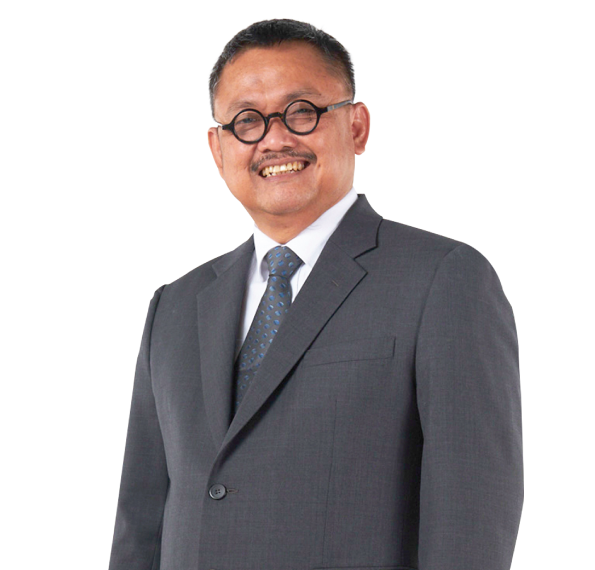
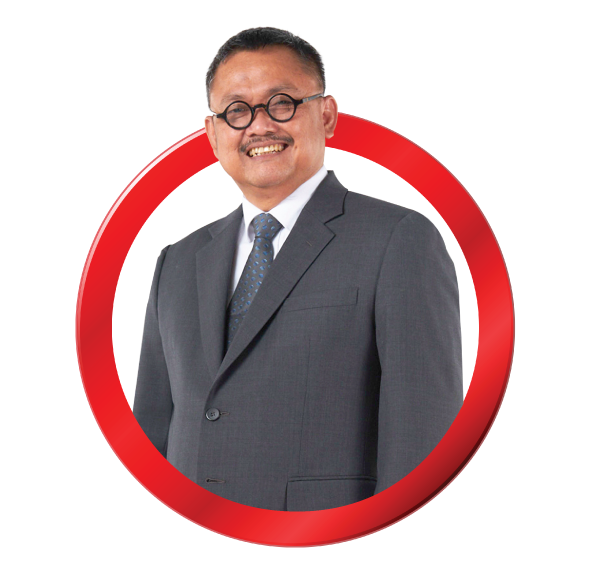
up

diff --git a/application/views/fronts/tentangkami/v_dewankomisaris.php b/application/views/fronts/tentangkami/v_dewankomisaris.php
@@ -13,51 +13,75 @@
 <?php $this->load->view('fronts/header.php')?>
 <!-- END HEADER -->
 
-<!-- START SECTION BANNER -->
-<section class="background_bg breadcrumb_section overlay_bg2 page-title-light" style="height:500px;"data-img-src="<?php echo base_url()?>assets/frontend/campur/headersubmenu.jpg">
-	<div class="container">
-    	<div class="row">
-        	<div class="col-md-12 text-center">
-            	<div class="page-title">
-            		<h1>Dewan Komisaris</h1>
+<!-- START SECTION ABOUT US -->
+<section class="small_pt">
+    <div class="container">
+        <div class="row justify-content-center">
+            <div class="col-md-6 animation" data-animation="fadeInUp" data-animation-delay="0.2s">
+                <div class="heading_s1 text-center">
+                    <h2>Direksi WMP</h2>
                 </div>
-                <nav aria-label="breadcrumb">
-                  <ol class="breadcrumb justify-content-center">
-                    <li class="breadcrumb-item"><a href="#">Beranda</a></li>
-                    <li class="breadcrumb-item"><a href="#">Tentang Kami</a></li>
-                    <li class="breadcrumb-item active" aria-current="page">Dewan Komisaris</li>
-                  </ol>
-                </nav>
+
             </div>
         </div>
-    </div>
-</section>
-<!-- END SECTION BANNER -->
+        <div class="row">
+            <div class="col-12">
+                <div class="cleafix small_divider"></div>
+            </div>
+        </div>
+        <div class="row">
+            <div class="col-md-12 carousel_slide4 owl-carousel owl-theme text-center animation" data-animation="fadeInUp" data-animation-delay="0.5s" data-margin="30" data-loop="true" data-autoplay="true">
+                <div class="item">
+                    <div class="team_box light_gray_bg team_hover_style2 social_white">
+                        <div class="team_img">
+                            <img src="assets/frontend/bod/FOTO-6.png" alt="Tumiyana"/>
+                            <ul class="list_none social_icons border_social">
+                               <li>
+                                    <h6 style="color: #fff">Temporibus autem quibusdam et aut officiis debitis aut rerum saepe eveniet </h6></li>
+                                    <a href="#" class="btn btn-outline-white">Lebih Detail</a>
+                            </ul>
+                        </div>
+                        <div class="team_title">
+                            <h5>Nama</h5>
+                            <span>Komisaris 1 Widodo Makmur Group</span>
+                        </div>
+                    </div>
+                </div>
 
-<!-- START SECTION ABOUT US -->
-<section class="small_pb overflow_hide">
-    <div class="container">
-        <div class="row align-items-center">
-        	<div class="col-md-6 col-sm-12 mb-4 mb-lg-0 animation" data-animation="fadeInLeft" data-animation-delay="0.2s">
-            	<div>
-            		<img src="assets/images/about_img6.jpg" alt="about_img6"/>
+                 <div class="item">
+                    <div class="team_box light_gray_bg team_hover_style2 social_white">
+                        <div class="team_img">
+                            <img src="assets/frontend/bod/FOTO-7.png" alt=""/>
+                            <ul class="list_none social_icons border_social">
+                               <li>
+                                    <h6 style="color: #fff">Temporibus autem quibusdam et aut officiis debitis aut rerum saepe eveniet </h6></li>
+                                    <a href="#" class="btn btn-outline-white">Lebih Detail</a>
+                            </ul>
+                        </div>
+                        <div class="team_title">
+													<h5>Nama</h5>
+													<span>Komisaris 2 Widodo Makmur Group</span>
+                        </div>
+                    </div>
                 </div>
-            </div>
-            <div class="col-md-6 col-sm-12 animation" data-animation="fadeInRight" data-animation-delay="0.4s">
-                <div class="heading_s3 mb-3">
-                  <h3>Dewan Komisaris</h3>
+
+                 <div class="item">
+                    <div class="team_box light_gray_bg team_hover_style2 social_white">
+                        <div class="team_img">
+                            <img src="assets/frontend/bod/FOTO-8.png" alt=""/>
+                            <ul class="list_none social_icons border_social">
+                               <li>
+                                    <h6 style="color: #fff">Temporibus autem quibusdam et aut officiis debitis aut rerum saepe eveniet </h6></li>
+                                    <a href="#" class="btn btn-outline-white">Lebih Detail</a>
+                            </ul>
+                        </div>
+                        <div class="team_title">
+													<h5>Nama</h5>
+													<span>Komisaris 3 Widodo Makmur Group</span>
+                        </div>
+                    </div>
                 </div>
-                <p>Nam eget neque pellentesque, efficitur neque at, ornare orci. Morbi convallis a eros fermentum rhoncus. Morbi convallis a eros fermentum rhoncus lorem. Vestibulum ligula orci, volutpat id aliquet eget, consectetur eget ante. Duis pharetra for nec rhoncus felis sagittis nec amet ultricies lorem.</p>
-                <p>All the Lorem Ipsum generators on the Internet tend to repeat predefined chunks as necessary.Iipsum dolor sit amet, consectetur adipiscing elitllus blandit massa enim.</p>
-                <p>Advancement, promising development John Lennon, our ambitions involvement underprivileged billionaire philanthropy save the world transform. </p>
-                <ul class="list_none social_icons border_social mt-2 mt-md-0">
-                	<li><a href="#"><i class="ion-social-facebook"></i></a></li>
-                    <li><a href="#"><i class="ion-social-twitter"></i></a></li>
-                    <li><a href="#"><i class="ion-social-googleplus"></i></a></li>
-                    <li><a href="#"><i class="ion-social-youtube-outline"></i></a></li>
-                    <li><a href="#"><i class="ion-social-instagram-outline"></i></a></li>
-                </ul>
-            </div>
+
         </div>
     </div>
 </section>

diff --git a/application/views/fronts/home/v_counter.php b/application/views/fronts/home/v_counter.php
@@ -1,4 +1,4 @@
-<section class="counter_wrap background_bg fixed_bg overlay_bg2" data-img-src="<?php echo base_url()?>assets/frontend/campur/bg_highlight_v2.jpg">
+<section class="counter_wrap background_bg fixed_bg overlay_bg2" data-img-src="<?php echo base_url()?>assets/frontend/campur/bg_highlight_v3.jpg">
     <div class="container">
         <div class="row align-items-center justify-content-center">
         	<div class="col-md-5 text_white text-center text-md-left mb-4 mb-md-0 animation" data-animation="fadeInUp" data-animation-delay="0.2s">
